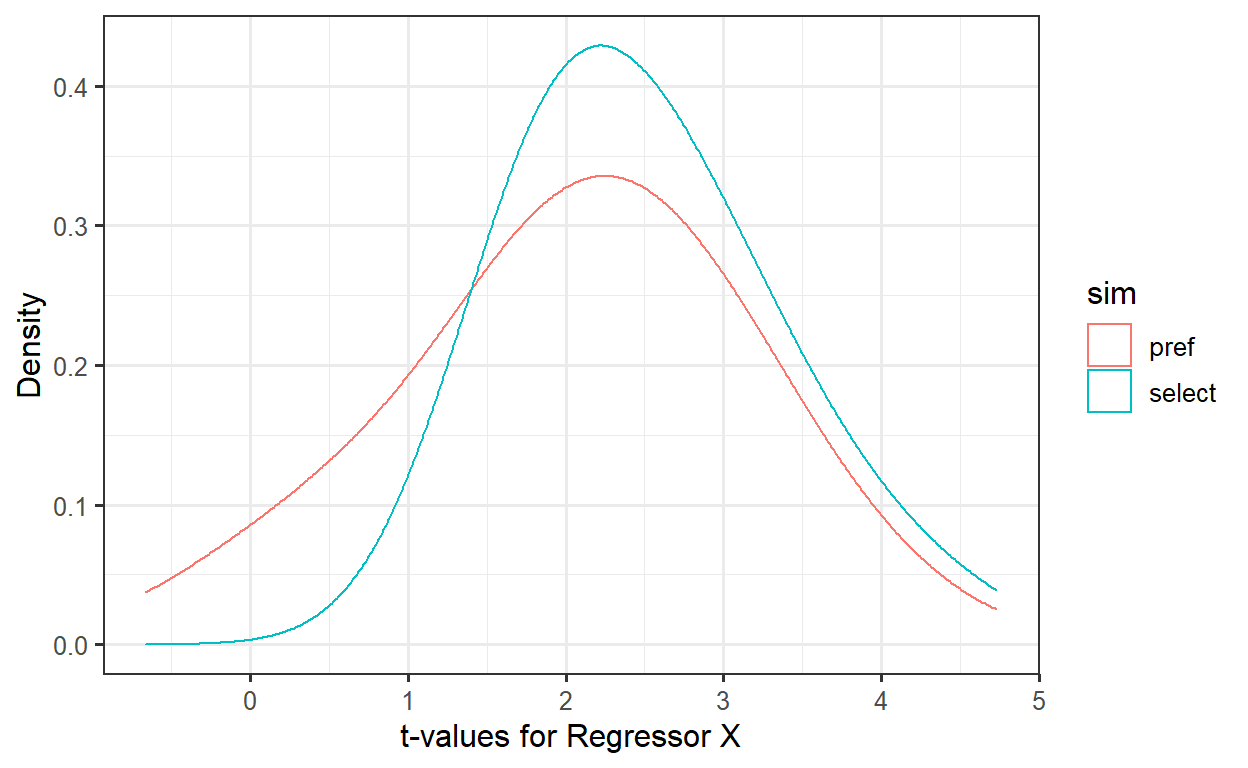
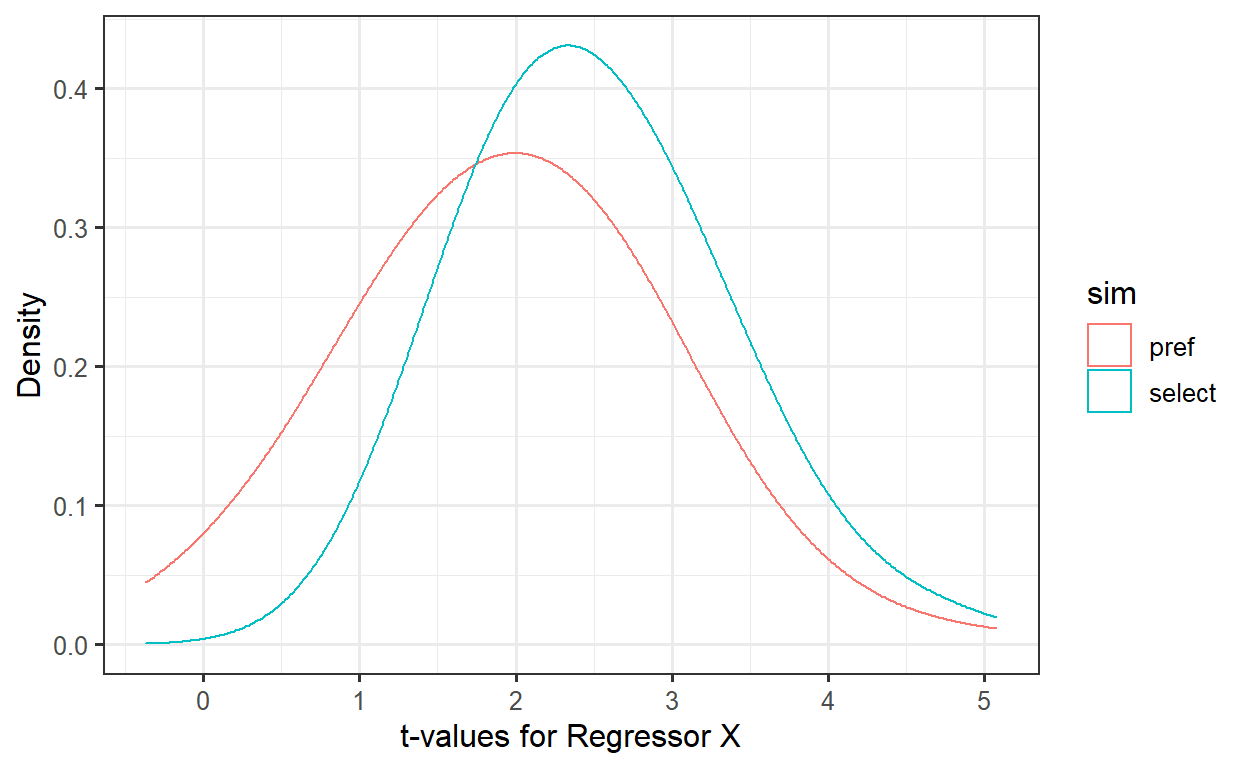
draft model bias update

diff --git a/_posts/2021-12-20-model-selection-bias/model-selection-bias.html b/_posts/2021-12-20-model-selection-bias/model-selection-bias.html
@@ -131,6 +131,7 @@ code span.wa { color: #5e5e5e; font-style: italic; } /* Warning */
 
   <!--/radix_placeholder_meta_tags-->
   
+  <meta name="citation_reference" content="citation_title=Statistical Inference After Model Selection;citation_publication_date=2010;citation_volume=26;citation_doi=10.1007/s10940-009-9077-7;citation_issn=1573-7799;citation_author=Richard Berk;citation_author=Lawrence Brown;citation_author=Linda Zhao"/>
   <meta name="citation_reference" content="citation_title=What you can and can’t properly do with regression;citation_publication_date=2010;citation_volume=26;citation_doi=10.1007/s10940-010-9116-4;citation_issn=1573-7799;citation_author=Richard Berk"/>
   <meta name="citation_reference" content="citation_title=Statistical methods for the social and behavioural sciences: A model-based approach;citation_publication_date=2017;citation_publisher=SAGE Publications;citation_author=D. B. Flora"/>
   <meta name="citation_reference" content="citation_title=Valid post-selection inference;citation_publication_date=2013;citation_publisher=Institute of Mathematical Statistics;citation_volume=41;citation_doi=10.1214/12-AOS1077;citation_issn=0090-5364, 2168-8966;citation_author=Richard Berk;citation_author=Lawrence Brown;citation_author=Andreas Buja;citation_author=Kai Zhang;citation_author=Linda Zhao"/>
@@ -142,7 +143,7 @@ code span.wa { color: #5e5e5e; font-style: italic; } /* Warning */
   <!--/radix_placeholder_rmarkdown_metadata-->
   
   <script type="text/json" id="radix-resource-manifest">
-  {"type":"character","attributes":{},"value":["apa.csl","model-selection-bias_files/anchor-4.2.2/anchor.min.js","model-selection-bias_files/bowser-1.9.3/bowser.min.js","model-selection-bias_files/distill-2.2.21/template.v2.js","model-selection-bias_files/figure-html5/fig3-1.png","model-selection-bias_files/figure-html5/fig4-1.png","model-selection-bias_files/figure-html5/unnamed-chunk-2-1.png","model-selection-bias_files/figure-html5/unnamed-chunk-4-1.png","model-selection-bias_files/header-attrs-2.12/header-attrs.js","model-selection-bias_files/jquery-3.6.0/jquery-3.6.0.js","model-selection-bias_files/jquery-3.6.0/jquery-3.6.0.min.js","model-selection-bias_files/jquery-3.6.0/jquery-3.6.0.min.map","model-selection-bias_files/popper-2.6.0/popper.min.js","model-selection-bias_files/tippy-6.2.7/tippy-bundle.umd.min.js","model-selection-bias_files/tippy-6.2.7/tippy-light-border.css","model-selection-bias_files/tippy-6.2.7/tippy.css","model-selection-bias_files/tippy-6.2.7/tippy.umd.min.js","model-selection-bias_files/webcomponents-2.0.0/webcomponents.js","references.bib"]}
+  {"type":"character","attributes":{},"value":["apa.csl","model-selection-bias_files/anchor-4.2.2/anchor.min.js","model-selection-bias_files/bowser-1.9.3/bowser.min.js","model-selection-bias_files/distill-2.2.21/template.v2.js","model-selection-bias_files/figure-html5/fig3-1.png","model-selection-bias_files/figure-html5/fig4-1.png","model-selection-bias_files/figure-html5/unnamed-chunk-2-1.png","model-selection-bias_files/figure-html5/unnamed-chunk-3-1.png","model-selection-bias_files/figure-html5/unnamed-chunk-4-1.png","model-selection-bias_files/figure-html5/unnamed-chunk-5-1.png","model-selection-bias_files/header-attrs-2.12/header-attrs.js","model-selection-bias_files/jquery-3.6.0/jquery-3.6.0.js","model-selection-bias_files/jquery-3.6.0/jquery-3.6.0.min.js","model-selection-bias_files/jquery-3.6.0/jquery-3.6.0.min.map","model-selection-bias_files/popper-2.6.0/popper.min.js","model-selection-bias_files/tippy-6.2.7/tippy-bundle.umd.min.js","model-selection-bias_files/tippy-6.2.7/tippy-light-border.css","model-selection-bias_files/tippy-6.2.7/tippy.css","model-selection-bias_files/tippy-6.2.7/tippy.umd.min.js","model-selection-bias_files/webcomponents-2.0.0/webcomponents.js","references.bib"]}
   </script>
   <!--radix_placeholder_navigation_in_header-->
   <!--/radix_placeholder_navigation_in_header-->
@@ -1518,31 +1519,56 @@ mathematical expressions; it’s aim is express how the data were
 generated. Regression based models are vastly employed on empirical
 research and often used to estimate causal effects <span
 class="citation" data-cites="berk2010">(<a href="#ref-berk2010"
-role="doc-biblioref">Berk, 2010</a>)</span>. However, to be able to
-perform causal modeling, researchers must specify a “correct” model
-(i.e. an accurate model of the data generating process) prior do data
-collection and use the obtained data only to estimate regression
-coefficients (see <span class="citation" data-cites="berk2010">Berk (<a
-href="#ref-berk2010" role="doc-biblioref">2010</a>)</span> for a further
-discussion). In practice however, researchers usually have only a vague
-idea of the right model to answer their research questions or even if
-such model can be estimated. Often, what is framed as statistical
-inference or causal modeling is in fact a descriptive analysis; what
-<span class="citation" data-cites="berk2010">Berk (<a
-href="#ref-berk2010" role="doc-biblioref">2010</a>)</span> calls
-<em>Level I Regression Analysis</em>.</p>
-<p>To overcome uncertainties related to which variables should be
-included in the model, a common solution is to resort to model selection
-algorithms. These variable selection procedures are not restricted to
-statistical methods – like stepwise regression, backward elimination,
-allsubsets regression, cross-validation etc. – it can be of the form of
-regression diagnostics or post-hoc considerations too <span
-class="citation" data-cites="berkValidPostselectionInference2013">(<a
+role="doc-biblioref">Berk, 2010</a>)</span>. However, to perform causal
+modeling, researchers must specify a “correct” model (i.e. an accurate
+model of the data generating process) prior do data collection and use
+the obtained data only to estimate regression coefficients (see <span
+class="citation" data-cites="berk2010">Berk (<a href="#ref-berk2010"
+role="doc-biblioref">2010</a>)</span> for a further discussion). In
+practice, researchers usually have only a vague idea of the right model
+to answer their research questions or even if such model can be
+estimated. Often, what is framed as statistical inference or causal
+modeling is in fact a descriptive analysis; what <span class="citation"
+data-cites="berk2010">Berk (<a href="#ref-berk2010"
+role="doc-biblioref">2010</a>)</span> name as <em>Level I Regression
+Analysis</em>.</p>
+<p>To determine which variables should be included in the model, a
+common solution is to resort to variable selection algorithms. However,
+whenever data driven variable selection procedures are employed,
+classical inference guarantees are invalidated due to the model itself
+becoming <a
+href="https://en.wikipedia.org/wiki/Stochastic">stochastic</a>. It means
+that if the model selection method evaluates the stochastic component of
+the data, the model is also considered stochastic <span class="citation"
+data-cites="berkValidPostselectionInference2013">(<a
 href="#ref-berkValidPostselectionInference2013"
 role="doc-biblioref">Berk et al., 2013</a>)</span>.</p>
-<h1 id="why-is-it-an-issue">Why is it an issue</h1>
-<p>Elencar os problemas de inferência e seleção de modelo na mesma
-amostra</p>
+<h1 id="why-is-it-a-problem">Why is it a problem?</h1>
+<p>Variable selection procedures aren’t in themselves problematic. When
+the correct model is unknown prior to data analysis and the
+<em>same</em> dataset is used for variable selection, parameter
+estimation and statistical inferences, the estimated results can be
+highly biased <span class="citation"
+data-cites="berkStatisticalInferenceModel2010">(<a
+href="#ref-berkStatisticalInferenceModel2010" role="doc-biblioref">Berk
+et al., 2010</a>)</span>.</p>
+<p>To see why, let’s consider a well defined population with it’s
+unknown parameter values. Our level 1 source of uncertainty lies on the
+randomness of the sample drawn. The “best” model found via variable
+selection is sample specific and isn’t guarantee to be the correct
+populational model (if we assume that one such model in fact
+exists).</p>
+<p>Now, imagine that we draw 9 samples from this population and select a
+model, <span class="math inline">\(\hat{M}_i\)</span> in each one, for
+<span class="math inline">\(i\)</span> = {1, 2, 3, 4} . Then, parameter
+estimation is performed and a set <span
+class="math inline">\(\hat{\Omega}_j\)</span> of coefficient values is
+found.</p>
+<div class="layout-chunk" data-layout="l-body">
+<pre><code>
+M1 M2 M3 M5 M6 
+ 1  1  3  1  3 </code></pre>
+</div>
 <h1 id="illustration">Illustration</h1>
 <p>Exemplificar com simulação (passos utilizados no app)</p>
 <h1 id="possible-solutions">Possible solutions</h1>
@@ -1647,7 +1673,7 @@ standard deviation of approximately 3.4.</p>
 <p>We don’t know which model is correct. Either way, the estimate will
 be far from its true value and its standard error, larger.</p>
 <div class="layout-chunk" data-layout="l-body">
-<p><img src="model-selection-bias_files/figure-html5/unnamed-chunk-2-1.png" width="624" /></p>
+<p><img src="model-selection-bias_files/figure-html5/unnamed-chunk-3-1.png" width="624" /></p>
 </div>
 <p>The estimation process is biased before statistical tests are
 performed.</p>
@@ -1737,7 +1763,7 @@ important.</p>
 <p>One thousand matrices of 40 rows and 21 columns were generated using
 normally distributed random numbers with mean zero and variance one.</p>
 <div class="layout-chunk" data-layout="l-body">
-<p><img src="model-selection-bias_files/figure-html5/unnamed-chunk-4-1.png" width="624" /></p>
+<p><img src="model-selection-bias_files/figure-html5/unnamed-chunk-5-1.png" width="624" /></p>
 </div>
 <div class="layout-chunk" data-layout="l-body">
 <pre><code>  x1   x2   x3   x4 
@@ -1780,7 +1806,7 @@ stochastic nature (?) of the random vector Y. The same random nature
 applies to the parameter vector of coefficients. It changes randomly as
 the adjuster covariates in <span class="math inline">\(\hat{M}\)</span>
 vary randomly.</p>
-<div class="sourceCode" id="cb6"><pre
+<div class="sourceCode" id="cb7"><pre
 class="sourceCode r distill-force-highlighting-css"><code class="sourceCode r"></code></pre></div>
 <div id="refs" class="references csl-bib-body hanging-indent"
 data-line-spacing="2" role="doc-bibliography">
@@ -1796,6 +1822,13 @@ Berk, R., Brown, L., Buja, A., Zhang, K., &amp; Zhao, L. (2013). Valid
 post-selection inference. <em>The Annals of Statistics</em>,
 <em>41</em>(2), 802–837. <a
 href="https://doi.org/10.1214/12-AOS1077">https://doi.org/10.1214/12-AOS1077</a>
+</div>
+<div id="ref-berkStatisticalInferenceModel2010" class="csl-entry"
+role="doc-biblioentry">
+Berk, R., Brown, L., &amp; Zhao, L. (2010). Statistical <span>Inference
+After Model Selection</span>. <em>Journal of Quantitative
+Criminology</em>, <em>26</em>(2), 217–236. <a
+href="https://doi.org/10.1007/s10940-009-9077-7">https://doi.org/10.1007/s10940-009-9077-7</a>
 </div>
 <div id="ref-flora2017statistical" class="csl-entry"
 role="doc-biblioentry">
